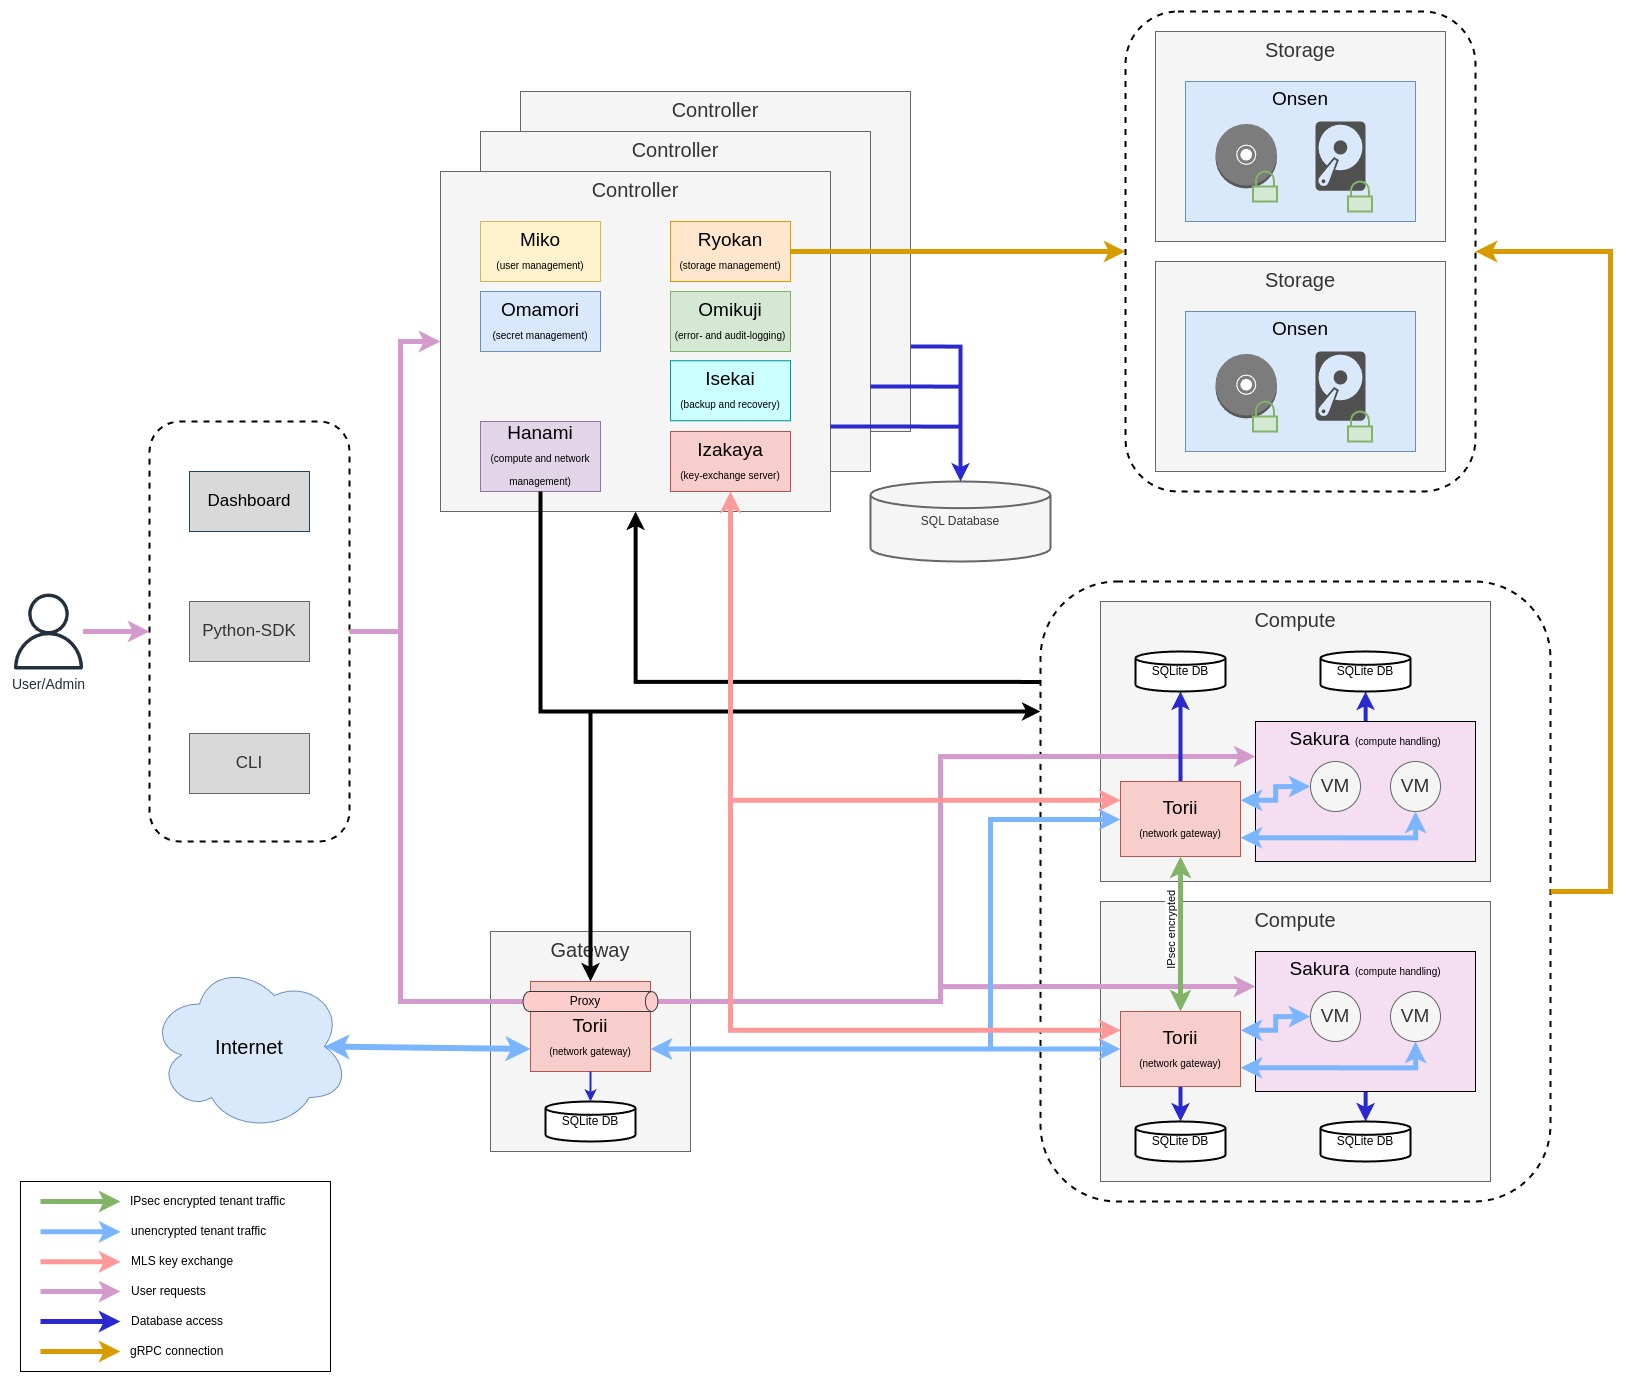
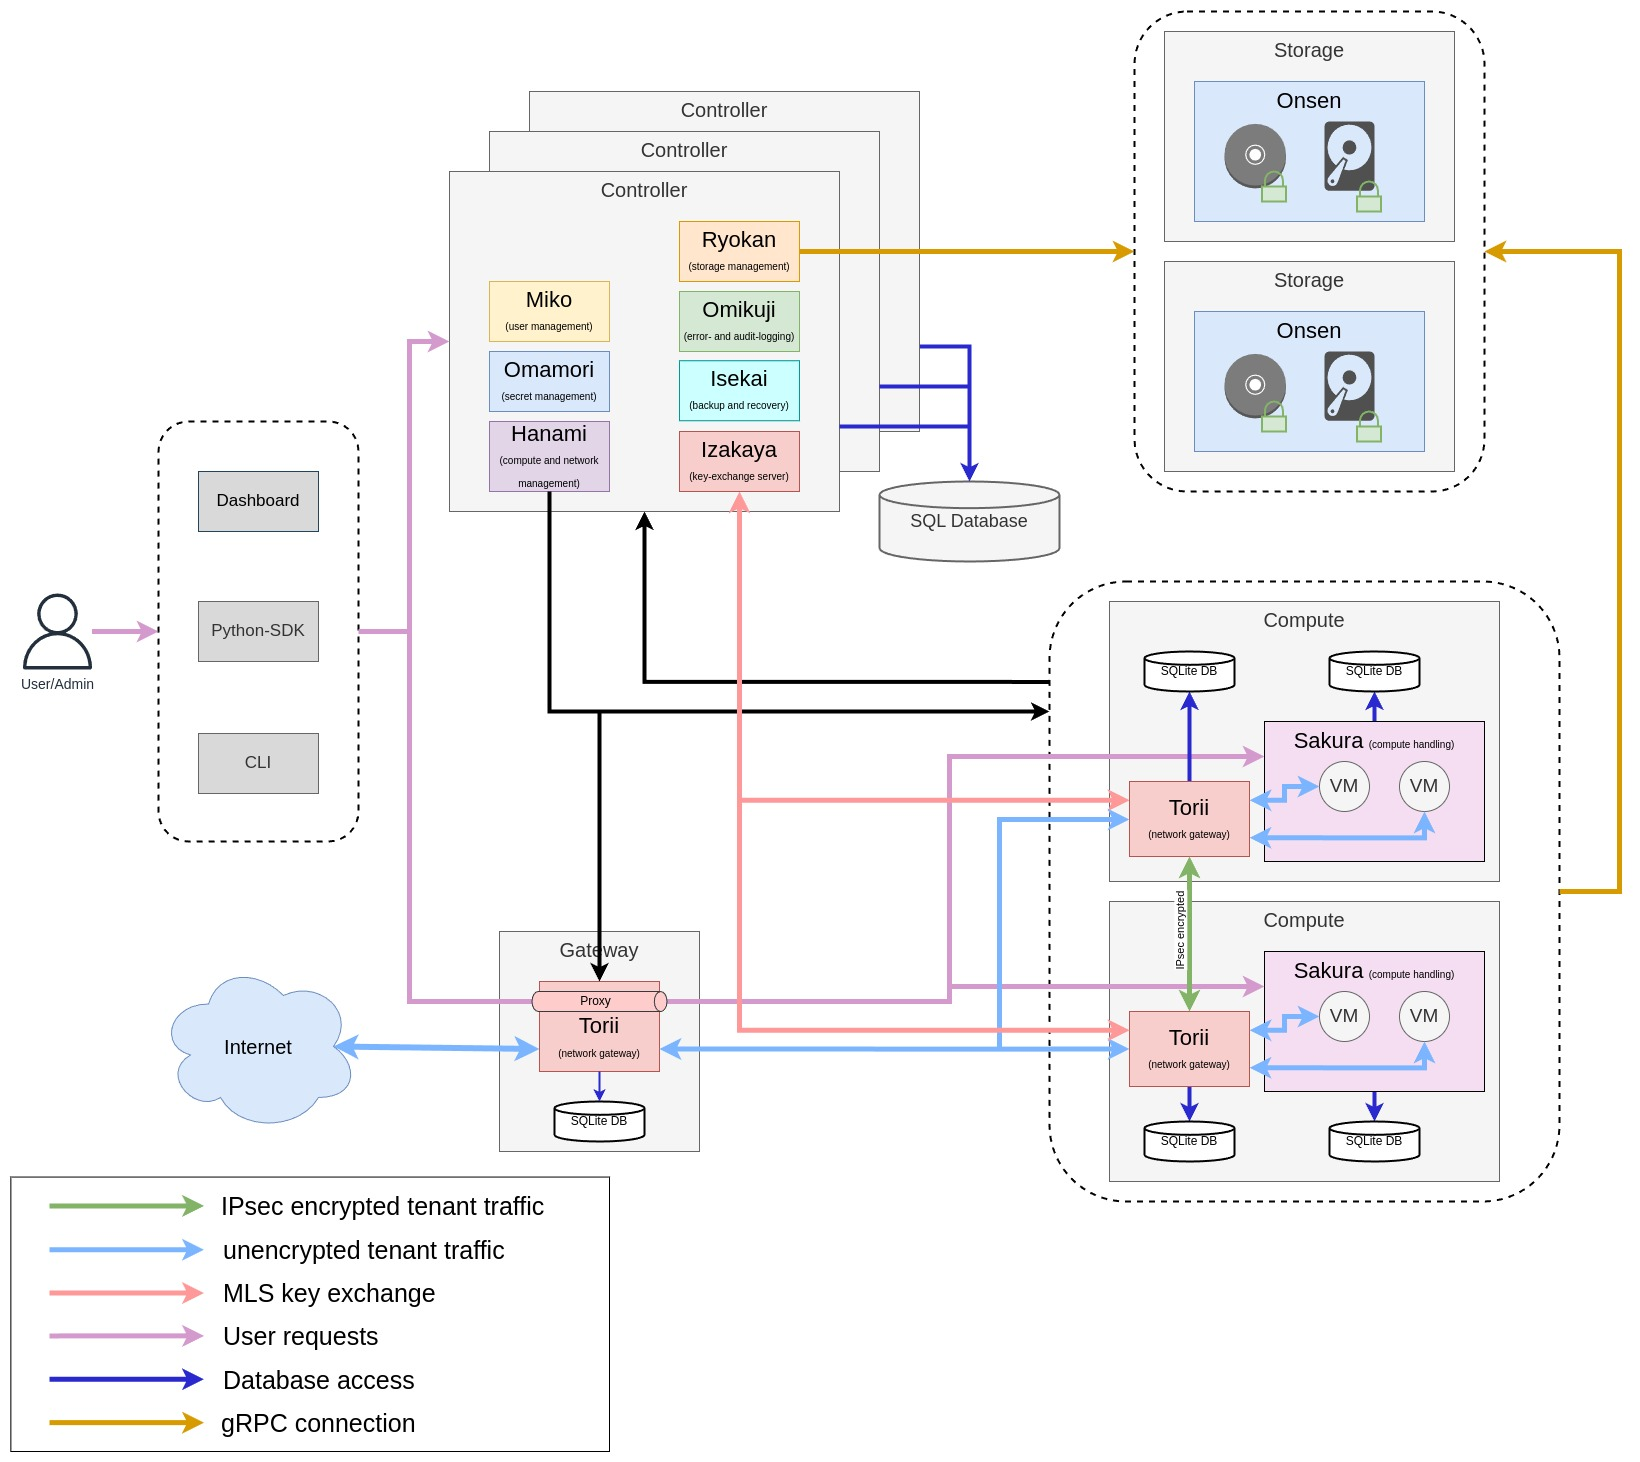
docs: update graphics in docs
- replaced logo with transparent version
- updated architecture overview with bigger text

diff --git a/README.md b/README.md
@@ -15,7 +15,7 @@ Report](https://rust-reportcard.xuri.me/badge/github.com/kitsudaiki/ainari?style
 Scorecard](https://img.shields.io/ossf-scorecard/github.com/kitsudaiki/ainari?branch=develop&style=flat-square&label=OpenSSF-Scorecard)](https://scorecard.dev/viewer/?uri=github.com/kitsudaiki/ainari)
 
 <p align="center">
-  <img src="docs/img/ainari_logo.jpg" alt="Ainari logo" width="500" height="500" />
+  <img src="docs/img/ainari_logo.png" alt="Ainari logo" width="500" height="500" />
 </p>
 
 ## **IMPORTANT**: This project is still a prototype and NOT ready for any productive usage

diff --git a/docs/index.md b/docs/index.md
@@ -5,7 +5,7 @@
 # Ainari
 
 <p align="center">
-  <img src="img/ainari_logo.jpg" alt="Ainari logo" width="500" height="500" />
+  <img src="img/ainari_logo.png" alt="Ainari logo" width="500" height="500" />
 </p>
 
 Ainari is a secure and easy to use, deploy and develop IaaS stack to manage virtual machines.
